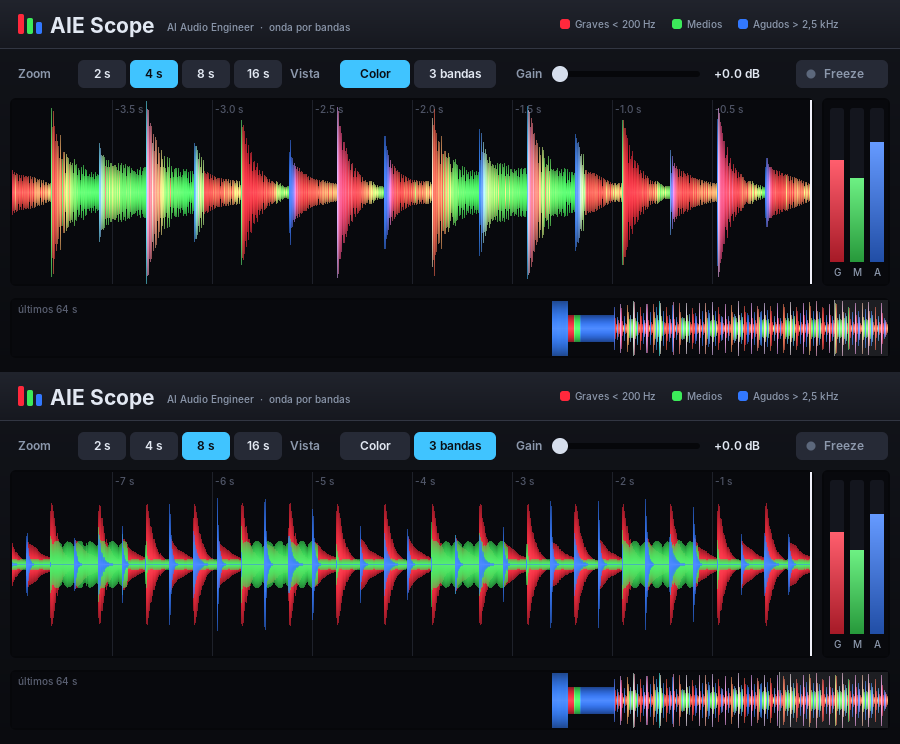
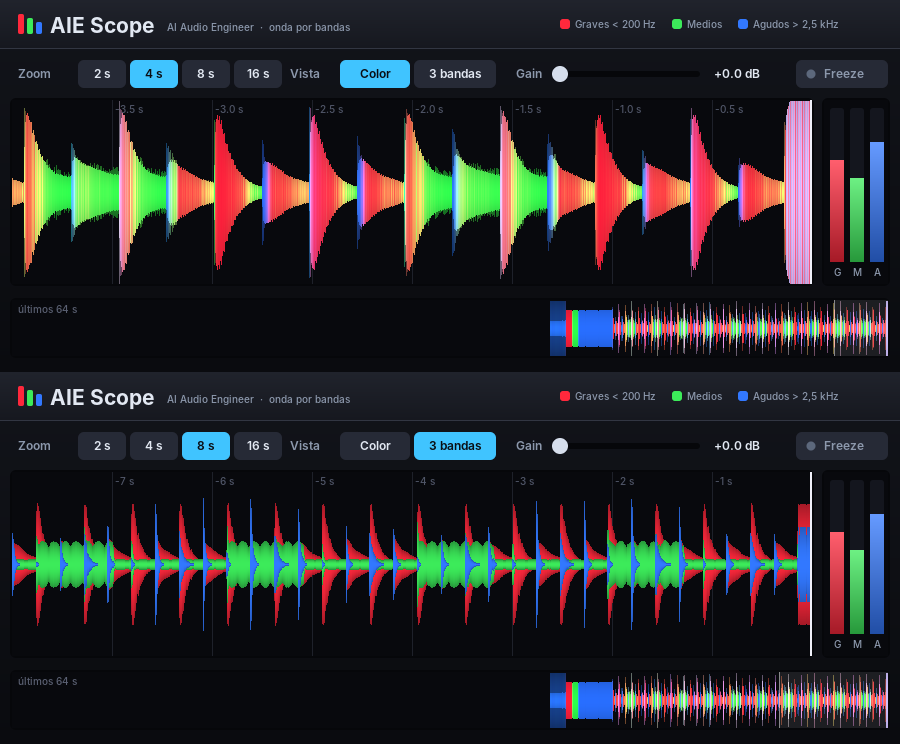
AIE Scope 1.1: onda estable y nítida al avanzar, más parecida a Traktor
Las barras se anclan al tiempo absoluto (cada barra reúne siempre las mismas
columnas), así que al avanzar la onda solo se desplaza en vez de temblar.
Envolventes con caída de 12 ms para un contorno suave, y dibujo sólido en dos
capas: pico en tono oscuro y RMS en color pleno.

Claude-Session: https://claude.ai/code/session_017DtKwApBYRa3NriYCrUW6n

Changed region(s): [[0.0, 0.1237, 0.9956, 0.4946], [0.0, 0.6801, 0.9022, 0.8347], [0.5911, 0.8965, 0.9956, 0.9892]]

diff --git a/plugins_vst/aiescope/aiescope.cpp b/plugins_vst/aiescope/aiescope.cpp
@@ -56,7 +56,7 @@ struct LR4 {
     void clear() { a.clear(); b.clear(); }
 };
 
-struct Column { float peak, low, mid, high; };
+struct Column { float peak, rms, low, mid, high; };
 
 class AIEScope {
 public:
@@ -69,12 +69,15 @@ public:
     LR4 lowLp, midHp, midLp, highHp;
     int colCount = 0;
     float accPeak = 0, accLow = 0, accMid = 0, accHigh = 0;
+    double accSq = 0;
+    // envolventes: suben al instante y bajan en ~12 ms -> contorno suave y estable (sin "peine")
+    double envPeak = 0, envLow = 0, envMid = 0, envHigh = 0, envSq = 0, rel = 0.998, rmsCoef = 0.002;
     // búfer circular: el audio escribe y avanza 'written'; la interfaz lee hasta 'written'
     std::vector<Column> ring;
     std::atomic<uint32_t> written;
     void* window = nullptr;
 
-    explicit AIEScope(audioMasterCallback cb) : host(cb), ring(kRing, Column{0, 0, 0, 0}) {
+    explicit AIEScope(audioMasterCallback cb) : host(cb), ring(kRing, Column{0, 0, 0, 0, 0}) {
         written = 0;
         params[kZoom] = 1.0f / (kNumZoom - 1);  // 4 s
         params[kGain] = 0.0f;                   // 0 dB
@@ -100,6 +103,8 @@ public:
     void setSampleRate(double fs) {
         sampleRate = fs > 0 ? fs : 44100;
         colLen = std::max(16, int(std::lround(sampleRate * kColumnSeconds)));
+        rel = std::exp(-1.0 / (0.012 * sampleRate));
+        rmsCoef = 1.0 - std::exp(-1.0 / (0.010 * sampleRate));
         lowLp.design(false, kLowCut, sampleRate);
         midHp.design(true, kLowCut, sampleRate);
         midLp.design(false, kHighCut, sampleRate);
@@ -110,6 +115,8 @@ public:
         lowLp.clear(); midHp.clear(); midLp.clear(); highHp.clear();
         colCount = 0;
         accPeak = accLow = accMid = accHigh = 0;
+        accSq = 0;
+        envPeak = envLow = envMid = envHigh = envSq = 0;
     }
     double columnsPerSecond() const { return sampleRate / colLen; }
     int zoomIdx() const { int z = int(params[kZoom] * (kNumZoom - 1) + 0.5f); return std::min(kNumZoom - 1, std::max(0, z)); }
@@ -123,16 +130,23 @@ public:
             out[1][i] = T(r);
             double x = 0.5 * (l + r);
             double lo = lowLp.run(x), mi = midLp.run(midHp.run(x)), hi = highHp.run(x);
-            accPeak = std::max(accPeak, float(std::max(std::fabs(l), std::fabs(r))));
-            accLow = std::max(accLow, float(std::fabs(lo)));
-            accMid = std::max(accMid, float(std::fabs(mi)));
-            accHigh = std::max(accHigh, float(std::fabs(hi)));
+            envPeak = std::max(std::max(std::fabs(l), std::fabs(r)), envPeak * rel);
+            envLow = std::max(std::fabs(lo), envLow * rel);
+            envMid = std::max(std::fabs(mi), envMid * rel);
+            envHigh = std::max(std::fabs(hi), envHigh * rel);
+            envSq += rmsCoef * (x * x - envSq);
+            accPeak = std::max(accPeak, float(envPeak));
+            accSq += envSq;
+            accLow = std::max(accLow, float(envLow));
+            accMid = std::max(accMid, float(envMid));
+            accHigh = std::max(accHigh, float(envHigh));
             if (++colCount >= colLen) {
                 uint32_t w = written.load(std::memory_order_relaxed);
-                ring[w & (kRing - 1)] = Column{accPeak, accLow, accMid, accHigh};
+                ring[w & (kRing - 1)] = Column{accPeak, float(std::sqrt(accSq / colLen)), accLow, accMid, accHigh};
                 written.store(w + 1, std::memory_order_release);
                 colCount = 0;
                 accPeak = accLow = accMid = accHigh = 0;
+                accSq = 0;
             }
         }
     }
@@ -202,7 +216,7 @@ public:
         r /= m; g /= m; b /= m;
         r *= r; g *= g; b *= b;  // realza la banda dominante (colores más puros, como en los programas de DJ)
         // mezcla aditiva de los tres colores de banda
-        double R = r * 255 + g * 60 + b * 50, G = r * 40 + g * 235 + b * 120, B = r * 60 + g * 90 + b * 255;
+        double R = r * 255 + g * 40 + b * 40, G = r * 30 + g * 230 + b * 110, B = r * 60 + g * 70 + b * 255;
         double mm = std::max(R, std::max(G, B)) / 255.0;
         return rgb(int(R / mm), int(G / mm), int(B / mm));
     }
@@ -251,41 +265,62 @@ public:
         background = cv.px;
     }
 
-    // dibuja una columna vertical simétrica alrededor del centro
-    void column(const Rect& r, int x, double amp, Color c) {
+    // Columna sólida simétrica alrededor del centro (sin transparencias: bordes nítidos como en los
+    // programas de DJ). 'edge' oscurece un poco hacia el borde para dar volumen.
+    void column(const Rect& r, int x, double amp, Color c, double edge = 0.35) {
         int half = r.h / 2, cy = r.y + half;
         int hh = int(std::min(1.0, amp) * (half - 1) + 0.5);
-        if (hh <= 0) { cv.blend(x, cy, withAlpha(c, 120)); return; }
+        if (hh <= 0) return;
+        uint32_t* px = cv.px.data();
         for (int dy = -hh; dy <= hh; ++dy) {
-            double t = double(std::abs(dy)) / hh;               // 0 en el centro, 1 en el borde
-            Color cc = mix(c, rgb(255, 255, 255), 0.14 * (1 - t) * (1 - t));  // núcleo algo más claro
-            cv.blend(x, cy + dy, withAlpha(cc, int(255 * (0.55 + 0.45 * (1 - t * t)))));
+            int y = cy + dy;
+            if (y < r.y || y >= r.b()) continue;
+            double t = double(std::abs(dy)) / hh;
+            Color cc = mix(c, rgb(0, 0, 0), edge * t * t);
+            px[size_t(y) * cv.w + x] = cc & 0x00FFFFFF;
         }
     }
 
-    // Agrega las columnas que caen en cada píxel (máximos) y pinta la onda en el rectángulo.
+    // Une las columnas de audio en barras de ancho fijo ANCLADAS AL TIEMPO ABSOLUTO: la barra k reúne
+    // siempre las mismas columnas, así que al avanzar la onda solo se desplaza (no "tiembla").
+    struct Bin { float pk, rms, lo, mi, hi; bool valid; };
+    Bin binAt(uint32_t end, double perPx, long k) {
+        Bin b = {0, 0, 0, 0, 0, false};
+        if (k < 0) return b;
+        uint32_t from = uint32_t(std::ceil(k * perPx)), to = uint32_t(std::ceil((k + 1) * perPx));
+        if (to <= from) to = from + 1;
+        uint32_t oldest = end > kRing - 1 ? end - (kRing - 1) : 0;
+        if (from < oldest) return b;
+        to = std::min(to, end);
+        double sq = 0;
+        for (uint32_t c = from; c < to; ++c) {
+            const Column& col = p->ring[c & (kRing - 1)];
+            b.pk = std::max(b.pk, col.peak); b.lo = std::max(b.lo, col.low);
+            b.mi = std::max(b.mi, col.mid); b.hi = std::max(b.hi, col.high);
+            sq += double(col.rms) * col.rms;
+            b.valid = true;
+        }
+        if (b.valid) b.rms = float(std::sqrt(sq / (to - from)));
+        return b;
+    }
+
     void drawWave(const Rect& r, double seconds, bool threeBands, double gain) {
         uint32_t end = head();
-        double cps = p->columnsPerSecond();
-        double perPx = seconds * cps / r.w;
-        uint32_t avail = std::min<uint32_t>(end, kRing - 1);
+        if (end == 0) return;
+        double perPx = seconds * p->columnsPerSecond() / r.w;
+        long last = long(std::floor((end - 1) / perPx));  // barra que contiene la columna más reciente
         for (int x = 0; x < r.w; ++x) {
-            // la columna más reciente queda a la derecha
-            double a = (r.w - x) * perPx, b = (r.w - x - 1) * perPx;
-            uint32_t from = uint32_t(b), to = std::max(uint32_t(a), from + 1);
-            if (from >= avail) continue;
-            to = std::min(to, avail);
-            float pk = 0, lo = 0, mi = 0, hi = 0;
-            for (uint32_t k = from; k < to; ++k) {
-                const Column& c = p->ring[(end - 1 - k) & (kRing - 1)];
-                pk = std::max(pk, c.peak); lo = std::max(lo, c.low); mi = std::max(mi, c.mid); hi = std::max(hi, c.high);
-            }
+            Bin b = binAt(end, perPx, last - (r.w - 1 - x));
+            if (!b.valid) continue;
+            int X = r.x + x;
             if (!threeBands) {
-                column(r, r.x + x, pk * gain, bandColor(lo, mi, hi));
+                Color c = bandColor(b.lo, b.mi, b.hi);
+                column(r, X, b.pk * gain, mix(c, rgb(0, 0, 0), 0.45), 0.25);  // pico: mismo color, más oscuro
+                column(r, X, b.rms * 1.9 * gain, c, 0.12);                     // cuerpo (RMS): color pleno
             } else {  // tres ondas superpuestas: graves al fondo, agudos delante
-                column(r, r.x + x, lo * gain, withAlpha(kLowColor, 230));
-                column(r, r.x + x, mi * gain * 1.25, withAlpha(kMidColor, 200));
-                column(r, r.x + x, hi * gain * 1.8, withAlpha(kHighColor, 210));
+                column(r, X, b.lo * gain, kLowColor, 0.35);
+                column(r, X, b.mi * gain * 1.25, kMidColor, 0.35);
+                column(r, X, b.hi * gain * 1.8, kHighColor, 0.25);
             }
         }
     }

diff --git a/plugins_vst/aiescope/tests_scope.cpp b/plugins_vst/aiescope/tests_scope.cpp
@@ -99,6 +99,25 @@ int main(int argc, char** argv) {
         p.run(bi, out, block);
         if ((pos / block) % 3 == 0) ed.tick();
     }
+    // la onda no "tiembla": al avanzar, cada barra ya completa conserva exactamente sus valores
+    {
+        bool stable = true;
+        for (int z = 0; z < kNumZoom; ++z) {
+            double perPx = kZoomSeconds[z] * p.columnsPerSecond() / ed.wave.w;
+            uint32_t endA = p.written.load();
+            std::vector<gui::ScopeEditor::Bin> A;
+            long lastA = long(std::floor((endA - 1) / perPx));
+            for (long k = lastA - 700; k < lastA; ++k) A.push_back(ed.binAt(endA, perPx, k));
+            float* bi[2] = {bl.data(), br.data()};
+            for (int b2 = 0; b2 < 3; ++b2) p.run(bi, out, block);  // avanza ~1 fotograma
+            uint32_t endB = p.written.load();
+            for (long k = lastA - 700, i = 0; k < lastA; ++k, ++i) {
+                gui::ScopeEditor::Bin b = ed.binAt(endB, perPx, k);
+                stable = stable && b.pk == A[i].pk && b.rms == A[i].rms && b.lo == A[i].lo && b.hi == A[i].hi;
+            }
+        }
+        CHECK(stable, "al avanzar, las barras ya dibujadas no cambian (la onda solo se desplaza)");
+    }
     auto t0 = std::chrono::steady_clock::now();
     for (int i = 0; i < 20; ++i) ed.draw();
     double ms = std::chrono::duration<double, std::milli>(std::chrono::steady_clock::now() - t0).count() / 20;

diff --git a/docs/PROGRESO.md b/docs/PROGRESO.md
@@ -159,3 +159,7 @@ EQ de canal de Cubase (modo EQ de Mackie) y parámetros de plugins (modo PLUG-IN
   vistas Color y 3 bandas, zoom 2–16 s, Gain, Freeze, resumen de 64 s y medidores por banda.
 - Código común en `plugins_vst/common/` (lienzo, letras, VST2 mínimo, ventana de Windows reutilizable).
 - Pendiente: probarlo en Cubase 5 real.
+- 1.1: el usuario vio que la onda "temblaba" y se veía turbia al avanzar. Causas: las columnas se repartían en
+  píxeles contando desde "ahora" (cada fotograma agrupaba distinto) y el pico crudo de 3 ms dibujaba un peine.
+  Ahora las barras están ancladas al tiempo absoluto (prueba: al avanzar, las barras ya dibujadas no cambian),
+  envolventes con caída de 12 ms y dibujo sólido de dos capas (pico oscuro + RMS en color pleno).
